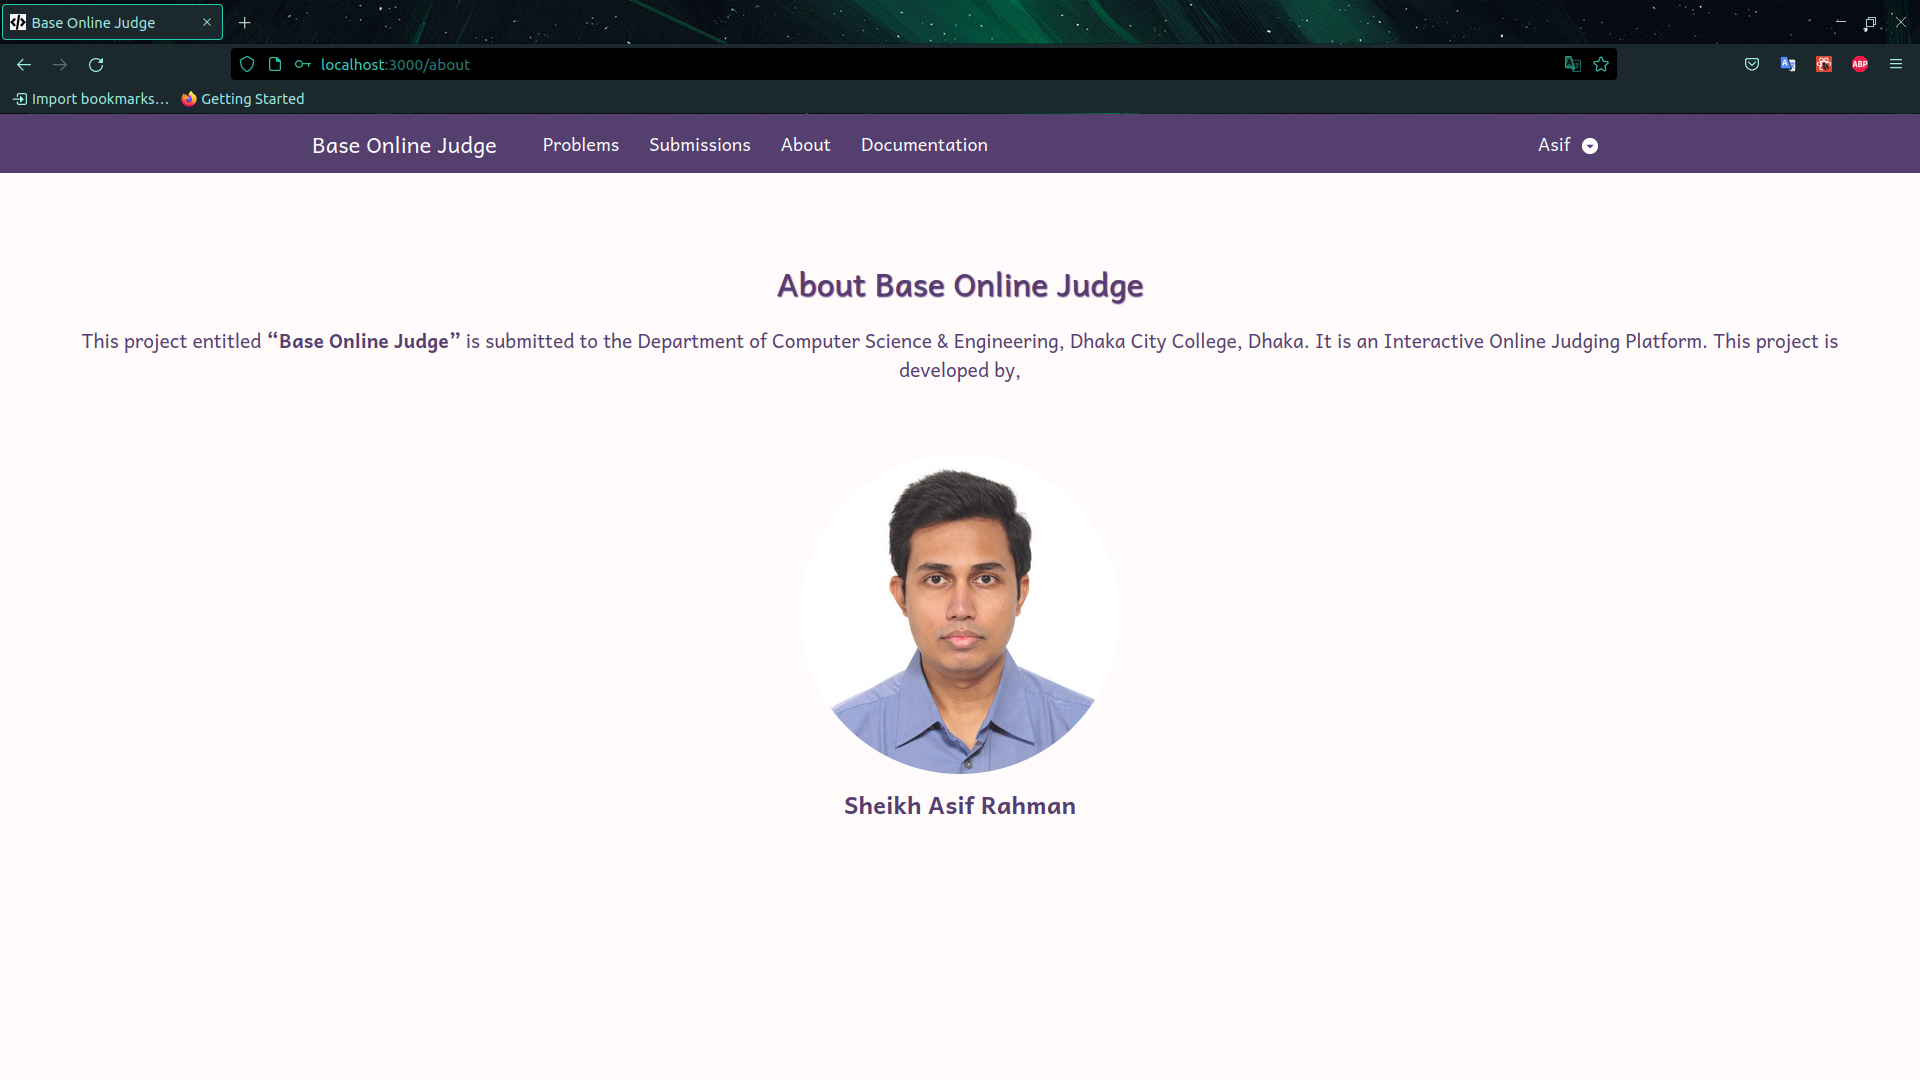
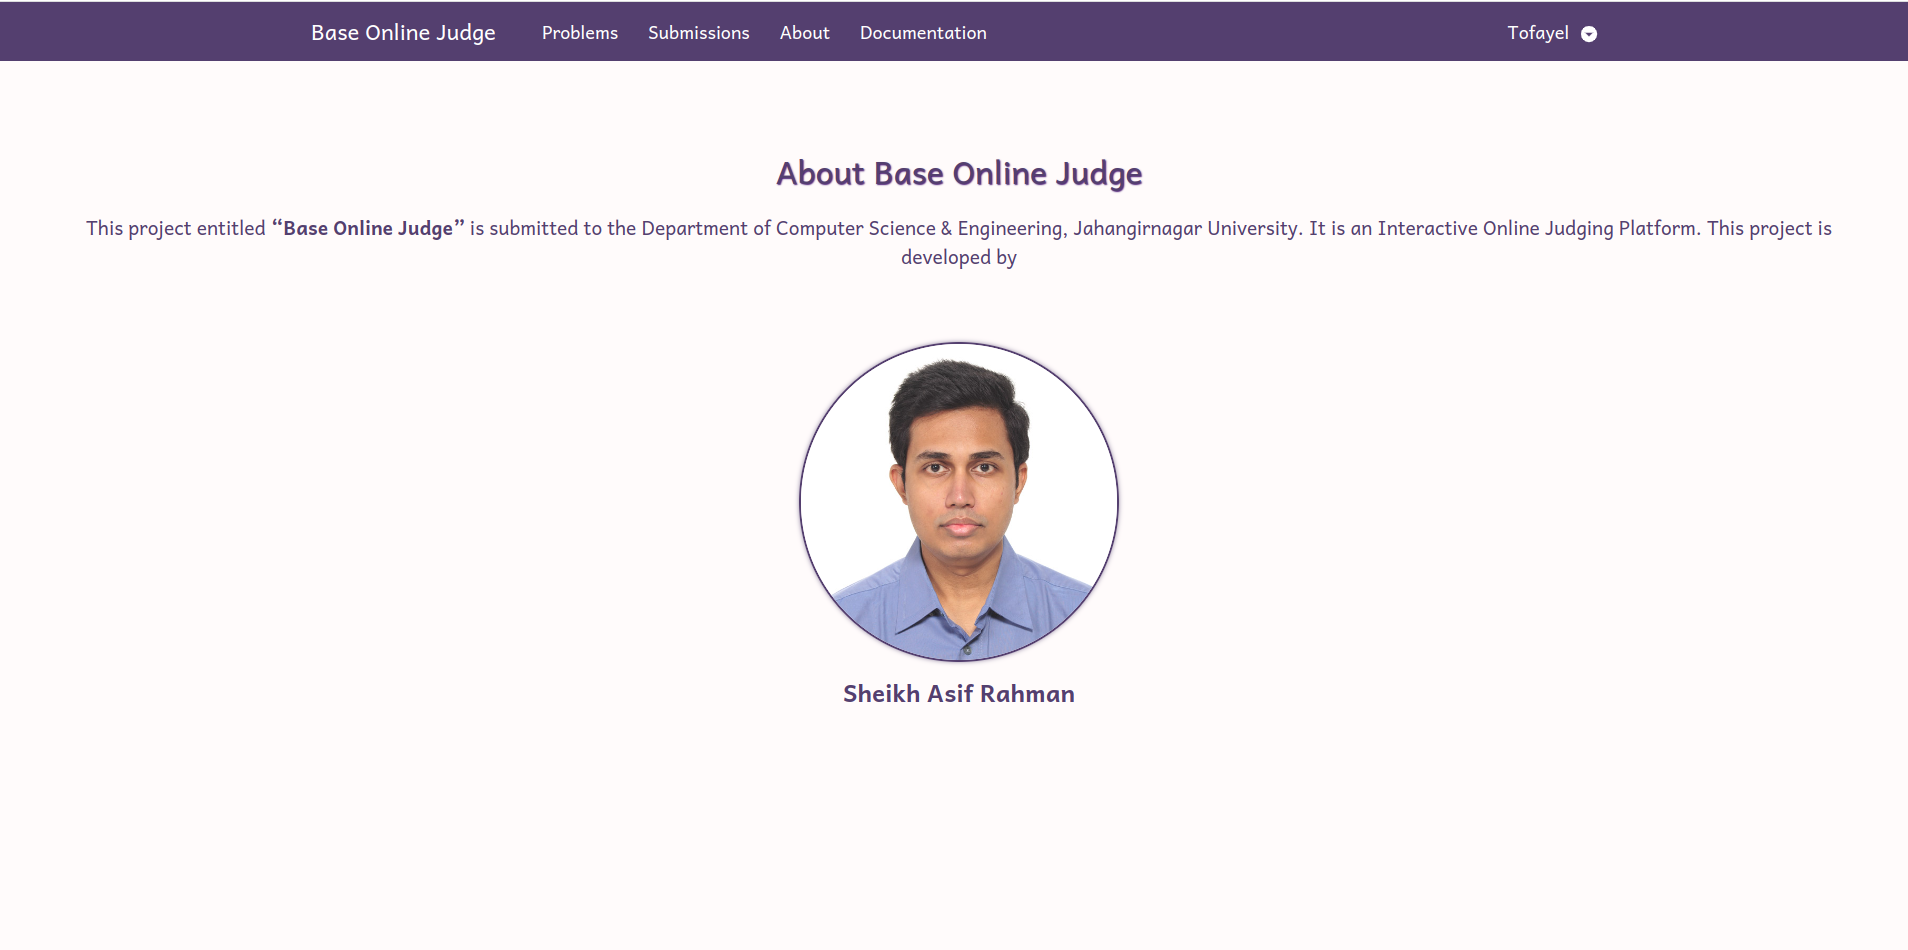
FIX: Minor Changes

Changed region(s): [[0.0, 0.0, 1.0, 0.2747], [0.0309, 0.3053, 0.9586, 0.7632]]

diff --git a/src/components/Profile/Profile.js b/src/components/Profile/Profile.js
@@ -126,7 +126,7 @@ class Profile extends React.Component {
                       {this.state.email}
                     </p>
                     <hr />
-                    <p>Final Year Student of DCC, CSE</p>
+                    <p>Final Year Student of JNU, CSE</p>
                     <button className="btn btn-style">Edit Profile </button>
                   </div>
                 </div>

diff --git a/src/components/About/About.js b/src/components/About/About.js
@@ -22,7 +22,7 @@ const About = () => {
           }}
         >
           This project entitled <b>“Base Online Judge”</b> is submitted to the
-          Department of Computer Science & Engineering, Dhaka City College, Dhaka.
+          Department of Computer Science & Engineering, Jahangirnagar University.
           
           It is an Interactive Online Judging Platform. 
 
